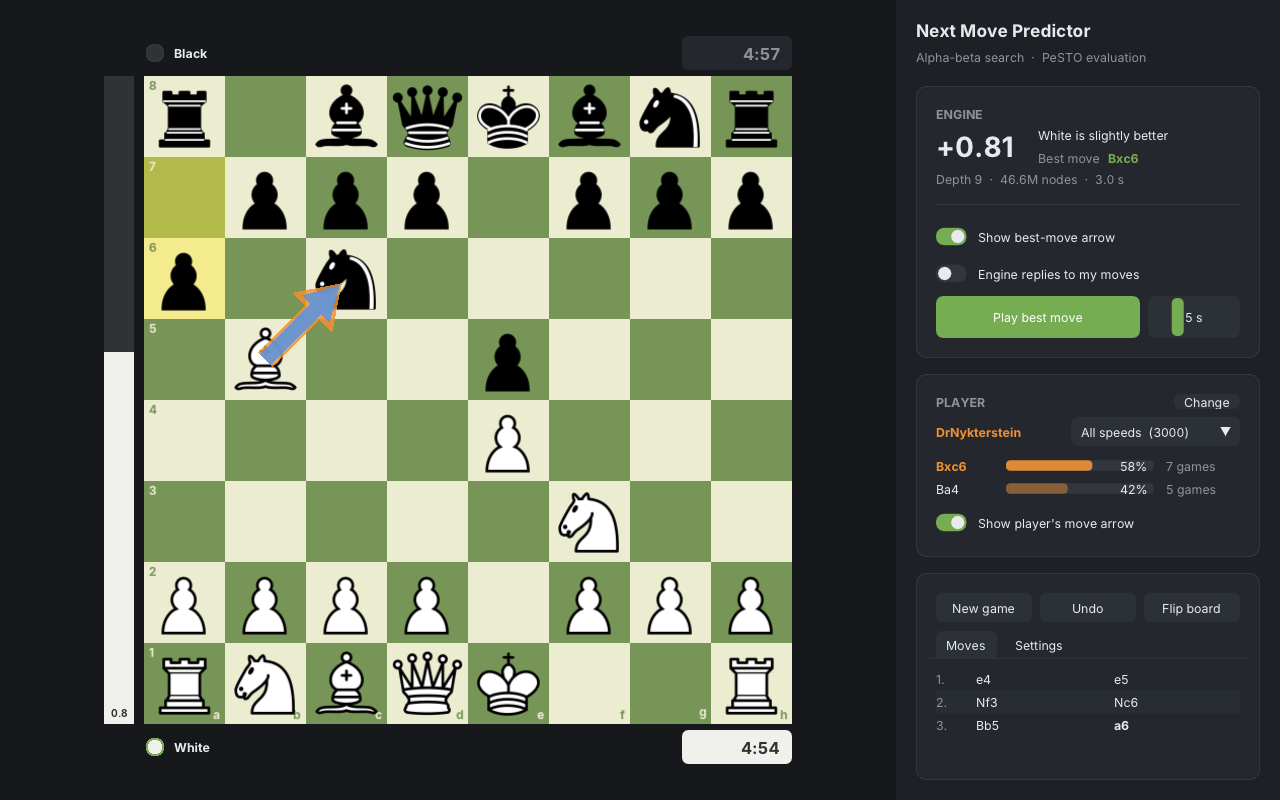
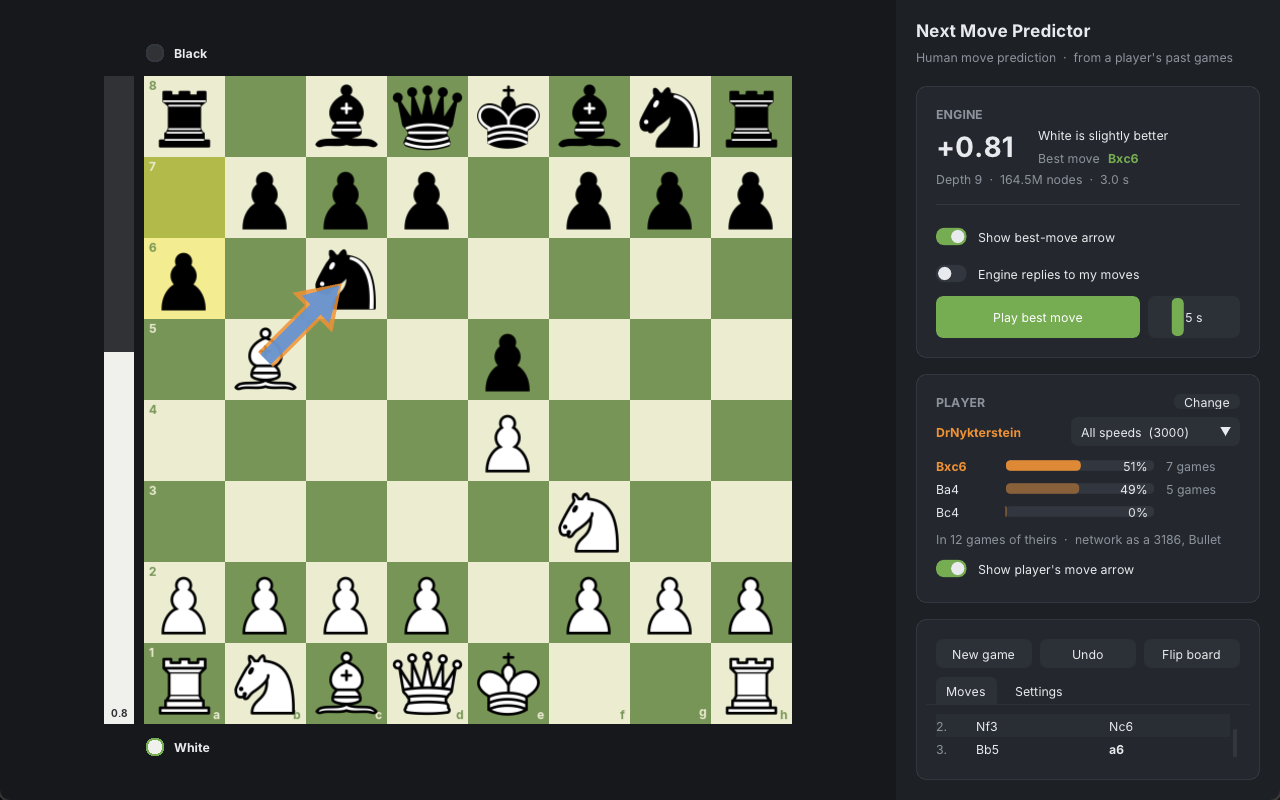
Retake the screenshots with the network in the player card

diff --git a/README.md b/README.md
@@ -11,7 +11,7 @@ and trained on millions of Lichess positions, that plays like a human of any rat
 [![Data](https://img.shields.io/badge/Data-Lichess%20database-black?logo=lichess)](https://database.lichess.org)
 [![C++17](https://img.shields.io/badge/App-C++17%20%2B%20SFML-00599C?logo=c%2B%2B)](src/)
 
-<img src="docs/screenshot-player.png" width="860" alt="After 1.e4 c5 2.Nf3 d6 3.d4 cxd4 4.Nxd4 Nf6 5.Nc3 the player card shows that DrNykterstein played 5...a6 in 70% of their games">
+<img src="docs/screenshot-player.png" width="860" alt="An English Attack after 11.g4, a position DrNykterstein has never had: the network predicts 11...b5 at 47%, while the engine's blue arrow prefers Rc8">
 
 </div>
 
@@ -103,7 +103,7 @@ runtime): 7 ms per position on a laptop CPU, with the same probabilities as PyTo
 which `ctest` checks.
 
 <p align="center">
-  <img src="docs/screenshot-game.png" width="860" alt="A Ruy Lopez: the loaded player's orange arrow and the engine's blue arrow both point to Bxc6">
+  <img src="docs/screenshot-game.png" width="860" alt="A Ruy Lopez that DrNykterstein has reached in 12 games: they chose Bxc6 7 times and Ba4 5 times, and the engine's blue arrow also points to Bxc6">
 </p>
 
 For contrast, a blue arrow shows the objectively best move, from the search engine of my separate
